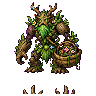
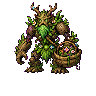
Refresh art overview and clean final assets

Changed region(s): [[0.2188, 0.875, 0.4688, 1.0], [0.6562, 0.875, 0.7812, 1.0], [0.5625, 0.9062, 0.625, 1.0]]

diff --git a/Tools/clean_final_artifacts.py b/Tools/clean_final_artifacts.py
@@ -1,0 +1,121 @@
+from __future__ import annotations
+
+import csv
+import json
+from collections import deque
+from pathlib import Path
+
+from PIL import Image
+
+
+def final_paths(manifest: Path, final_dir: Path) -> list[Path]:
+    paths: list[Path] = []
+    with manifest.open(encoding="utf-8-sig", newline="") as f:
+        for row in csv.DictReader(f):
+            path = final_dir / row["asset_id"] / f"{row['asset_id']}__{row['output_type']}__v01.png"
+            if path.exists():
+                paths.append(path)
+    return paths
+
+
+def components(alpha: Image.Image) -> list[dict[str, int]]:
+    width, height = alpha.size
+    pix = alpha.load()
+    seen = bytearray(width * height)
+    found: list[dict[str, int]] = []
+    for y in range(height):
+        for x in range(width):
+            idx = y * width + x
+            if seen[idx] or pix[x, y] == 0:
+                continue
+            q: deque[tuple[int, int]] = deque([(x, y)])
+            seen[idx] = 1
+            area = 0
+            min_x = max_x = x
+            min_y = max_y = y
+            while q:
+                cx, cy = q.popleft()
+                area += 1
+                min_x = min(min_x, cx)
+                max_x = max(max_x, cx)
+                min_y = min(min_y, cy)
+                max_y = max(max_y, cy)
+                for ny in range(cy - 1, cy + 2):
+                    for nx in range(cx - 1, cx + 2):
+                        if nx == cx and ny == cy:
+                            continue
+                        if nx < 0 or ny < 0 or nx >= width or ny >= height:
+                            continue
+                        nidx = ny * width + nx
+                        if not seen[nidx] and pix[nx, ny] != 0:
+                            seen[nidx] = 1
+                            q.append((nx, ny))
+            found.append(
+                {
+                    "area": area,
+                    "min_x": min_x,
+                    "max_x": max_x,
+                    "min_y": min_y,
+                    "max_y": max_y,
+                    "width": max_x - min_x + 1,
+                    "height": max_y - min_y + 1,
+                }
+            )
+    return found
+
+
+def clean_image(path: Path) -> int:
+    with Image.open(path) as src:
+        rgba = src.convert("RGBA")
+    alpha = rgba.getchannel("A")
+    parts = components(alpha)
+    if len(parts) < 2:
+        return 0
+
+    total_area = sum(part["area"] for part in parts)
+    major_threshold = max(16, int(total_area * 0.04))
+    major_parts = [part for part in parts if part["area"] >= major_threshold]
+    if not major_parts:
+        return 0
+    major_bottom = max(part["max_y"] for part in major_parts)
+    tiny_threshold = max(16, int(total_area * 0.06))
+
+    remove: list[dict[str, int]] = []
+    for part in parts:
+        separated_below = part["min_y"] > major_bottom + 1
+        low_tiny = part["max_y"] >= rgba.height - 6 and part["area"] <= tiny_threshold
+        text_like = part["height"] <= 10 and part["width"] <= max(24, rgba.width // 3)
+        if part["area"] <= tiny_threshold and text_like and (separated_below or low_tiny):
+            remove.append(part)
+
+    if not remove:
+        return 0
+
+    pix = rgba.load()
+    alpha_pix = alpha.load()
+    removed_pixels = 0
+    for part in remove:
+        for y in range(part["min_y"], part["max_y"] + 1):
+            for x in range(part["min_x"], part["max_x"] + 1):
+                if alpha_pix[x, y] != 0:
+                    pix[x, y] = (0, 0, 0, 0)
+                    removed_pixels += 1
+    rgba.save(path)
+    return removed_pixels
+
+
+def main() -> None:
+    manifest = Path("Assets/Specs/art_asset_manifest.csv")
+    final_dir = Path("Assets/Final")
+    changed = 0
+    removed = 0
+    for path in final_paths(manifest, final_dir):
+        removed_pixels = clean_image(path)
+        if removed_pixels:
+            changed += 1
+            removed += removed_pixels
+    print(json.dumps({"changed_files": changed, "removed_pixels": removed}, ensure_ascii=False, indent=2))
+
+
+if __name__ == "__main__":
+    main()

diff --git a/Tools/create_art_previews.py b/Tools/create_art_previews.py
@@ -40,6 +40,32 @@ def make_category_sheets(manifest: Path, final_dir: Path, out_dir: Path) -> None
         sheet.save(out_dir / f"{group}_contact_sheet_v01.png")
 
 
+def iter_manifest_final_paths(manifest: Path, final_dir: Path) -> list[Path]:
+    files: list[Path] = []
+    with manifest.open(encoding="utf-8-sig", newline="") as f:
+        for row in csv.DictReader(f):
+            path = final_dir / row["asset_id"] / f"{row['asset_id']}__{row['output_type']}__v01.png"
+            if path.exists():
+                files.append(path)
+    return files
+
+
+def make_all_contact_sheet(manifest: Path, final_dir: Path, out_path: Path) -> None:
+    files = iter_manifest_final_paths(manifest, final_dir)
+    if not files:
+        return
+    cols = 8
+    thumb = 96
+    rows = (len(files) + cols - 1) // cols
+    sheet = Image.new("RGBA", (cols * thumb, rows * thumb), (24, 24, 24, 255))
+    for i, path in enumerate(files):
+        with Image.open(path) as img:
+            tile = fit_thumb(img, thumb)
+        sheet.alpha_composite(tile, ((i % cols) * thumb, (i // cols) * thumb))
+    out_path.parent.mkdir(parents=True, exist_ok=True)
+    sheet.save(out_path)
+
+
 def make_tile_previews(manifest: Path, final_dir: Path, out_dir: Path) -> None:
     out_dir.mkdir(parents=True, exist_ok=True)
     with manifest.open(encoding="utf-8-sig", newline="") as f:
@@ -61,6 +87,7 @@ def make_tile_previews(manifest: Path, final_dir: Path, out_dir: Path) -> None:
 def main() -> None:
     manifest = Path("Assets/Specs/art_asset_manifest.csv")
     final_dir = Path("Assets/Final")
+    make_all_contact_sheet(manifest, final_dir, Path("Assets/Final/contact_sheet_v01.png"))
     make_category_sheets(manifest, final_dir, Path("Assets/Final/ContactSheets"))
     make_tile_previews(manifest, final_dir, Path("Assets/Final/TilePreviews"))
 

diff --git a/Wiki/Art_Audit.md b/Wiki/Art_Audit.md
@@ -5,14 +5,14 @@
 ## 自动检查结果
 
 - Manifest 条目：130
-- `Assets/Final/<asset_id>/` 下最终 PNG：150
+- `Assets/Final/<asset_id>/` 下最终素材 PNG：130
+- 预览/审计 PNG：总览 contact sheet、分类 contact sheets、Tile 平铺预览另行生成，不计入最终素材数量。
 - 已检查：文件存在、RGBA 格式、目标尺寸、非 Tile/Wall 透明角。
 - 当前机器检查：通过。
 - 已修复：Wiki 页面已插入素材图片，不再只依赖路径定位。
 - 已修复：美术图库使用中文名称、ID、类型、尺寸同表展示，便于对照。
-- 已修复：批量源图不完全遵守数学等分网格时，改用内容行带裁切，避免 Boss/NPC 等高素材被上下截断。
-- 已修复：`spirit_vein_wyrm` 最终 body/head 改用已认可的单独生成源表重新裁切。
-- 最新截断检查：非 Tile/Wall/UI 资源边缘不透明像素为 0。
+- 已修复：总览 contact sheet 现由 `Tools/create_art_previews.py` 按 manifest 顺序重建，避免替换单个素材后总览图滞后。
+- 已修复：清理最终 PNG 中与主体分离的源图标签/色点残留；Tile/Wall 贴边为平铺需求，不按截断处理。
 
 ## 语义一致性检查
 
